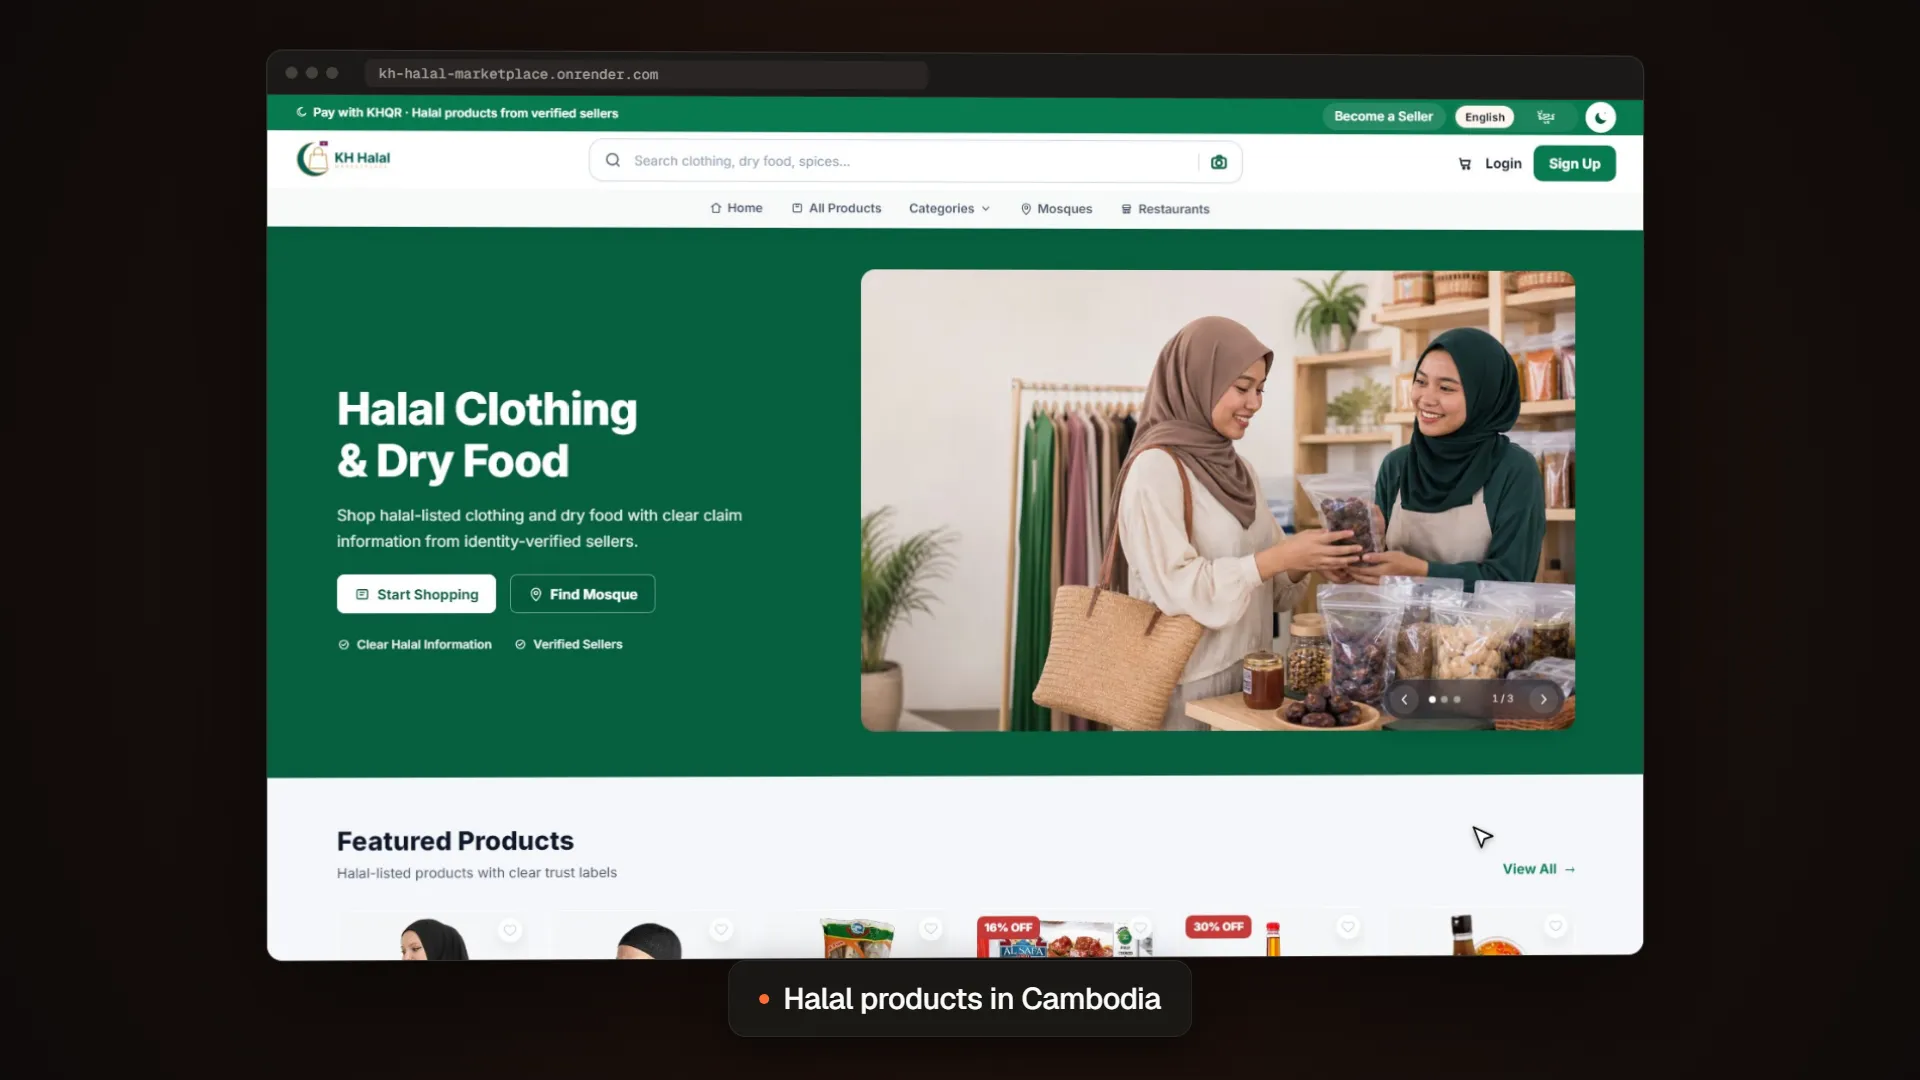
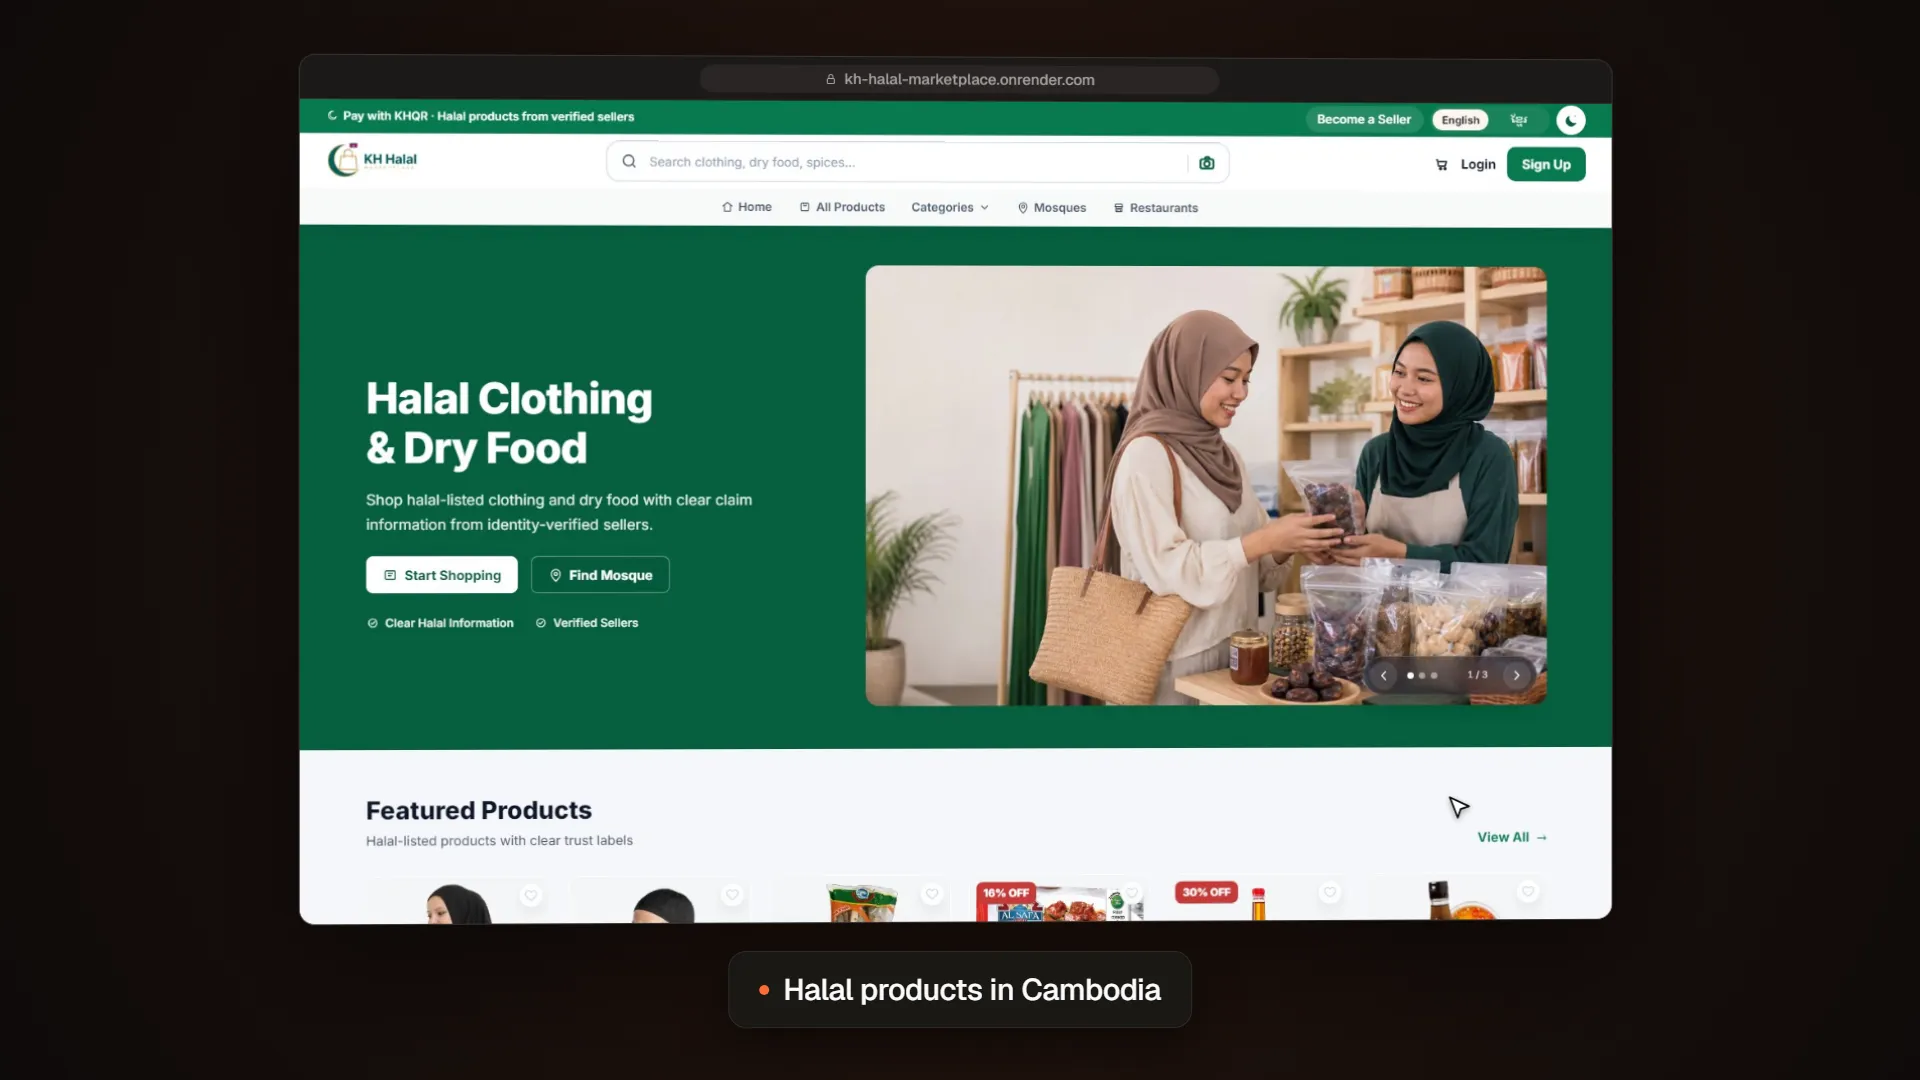
KH Halal video: neutral browser frame, even caption spacing
Drop the macOS-style window dots (centred address pill with a lock icon,
normal font instead of mono) and make the browser frame smaller so the
caption has an even gap under it.

Changed region(s): [[0.125, 0.0611, 0.875, 0.9472], [0.2188, 0.1833, 0.75, 0.2139], [0.4062, 0.0611, 0.5938, 0.0917]]

diff --git a/scripts/motion/compose.html b/scripts/motion/compose.html
@@ -25,11 +25,12 @@
   .phone #viewport { border-radius: 50px; }
   .browser { border-radius: 16px; background: #1C1917; border: 1.5px solid rgba(255,255,255,.12);
     box-shadow: 0 40px 140px rgba(0,0,0,.6); overflow: hidden; }
-  #bar { display: none; height: 44px; align-items: center; gap: 8px; padding: 0 18px; border-bottom: 1px solid var(--line); }
+  /* neutral browser bar (no OS window buttons): just a centred address pill */
+  #bar { display: none; height: 44px; align-items: center; justify-content: center; border-bottom: 1px solid var(--line); }
   .browser #bar { display: flex; }
-  #bar i { width: 12px; height: 12px; border-radius: 50%; background: #44403C; }
-  #bar span { margin-left: 18px; flex: 0 1 560px; height: 28px; border-radius: 8px; background: #292524;
-    font: 500 14px/28px "Geist Mono", monospace; color: var(--muted); padding: 0 14px; white-space: nowrap; overflow: hidden; }
+  #bar span { display: flex; align-items: center; justify-content: center; gap: 8px; width: 520px; height: 28px; border-radius: 14px;
+    background: #292524; font: 400 15px/28px "Geist", Arial, sans-serif; color: var(--muted); white-space: nowrap; overflow: hidden; }
+  #bar svg { flex: none; }
   #viewport { position: relative; overflow: hidden; background: #fff; }
   #zoom { position: absolute; inset: 0; transform-origin: 0 0; }
   #screen { display: block; width: 100%; height: 100%; }
@@ -53,7 +54,7 @@
 <div id="stage">
   <div id="glow"></div>
   <div id="grid"></div>
-  <div id="device"><div id="bar"><i></i><i></i><i></i><span id="url"></span></div>
+  <div id="device"><div id="bar"><span><svg width="12" height="12" viewBox="0 0 24 24" fill="none" stroke="currentColor" stroke-width="2.2" stroke-linecap="round"><rect x="5" y="11" width="14" height="10" rx="2"/><path d="M8 11V7a4 4 0 0 1 8 0v4"/></svg><b id="url" style="font-weight:500"></b></span></div>
     <div id="viewport"><div id="zoom"><img id="screen" alt=""><img id="prev" alt=""><div id="ripples"></div>
       <svg id="cursor" width="26" height="26" viewBox="0 0 24 24"><path d="M3 2l7.5 19 2.6-7.9L21 10.5z" fill="#fff" stroke="#0C0A09" stroke-width="1.6" stroke-linejoin="round"/></svg></div></div></div>
   <div id="caption"></div>

diff --git a/CLAUDE.md b/CLAUDE.md
@@ -306,6 +306,7 @@ Owner approved the plan, the shot lists and an 8 s style test ("do all of these"
 - Cleanup: demo mode off (`sysui_demo_allowed 0`), temp files deleted, emulator closed. Android's "No screen lock" notification was snoozed 2 h on the emulator (comes back by itself).
 - Checked in headless Edge (file://, 1440 and 390): all 3 buttons show, videos load + play, phone-size pop-up for the Android cards (418px), Esc closes, focus returns, no horizontal scroll, no console errors.
 - Committed with a separate index: only these lines/files. The other session's uncommitted work (CSS/JS, icons, terminal, `btn--sm`, etc.) is still uncommitted.
+- Owner feedback: the browser frame looked like a Mac (traffic-light dots) and the caption was tight under it. Now a neutral bar (centred address pill, lock icon, Geist not mono), browser 1312×820, even gaps (56 top, 28 to the caption). KH video 3.69 MB.
 
 ### Note about the earlier session
 Another agent session worked on this repo until 13:39 (commits up to f854a43) from the OLD DESIGN.md (RielTrack/FileShift). Commit 049de5c replaced its `index.html`, `css/style.css`, `js/main.js` with the new-spec build. Its one small JS fix (stop the demo video on Esc via the dialog `cancel` event) was ported.
